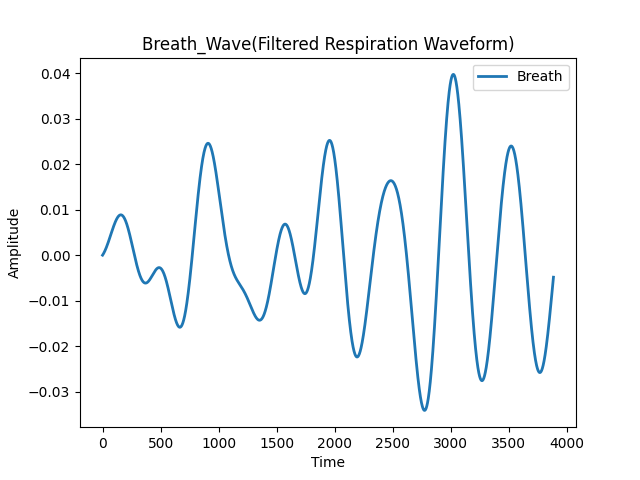
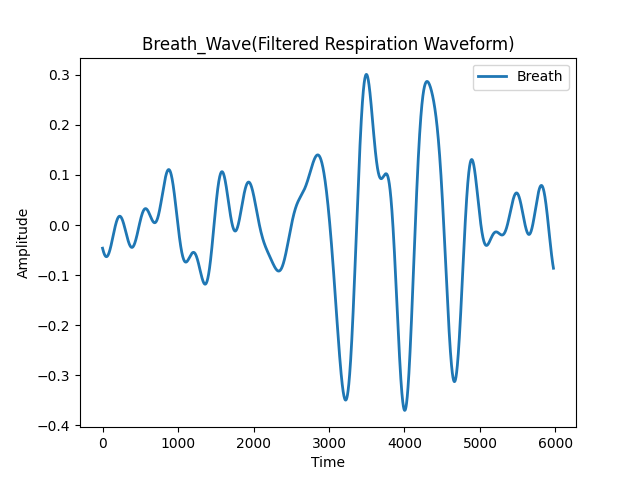
breath detect with win

diff --git a/backend/blueprints/algos_wifi.py b/backend/blueprints/algos_wifi.py
@@ -50,27 +50,35 @@ def detect_breath_realtime():
     req_params = json.loads(request.data)
 
     data_key = req_params['deviceId'] + '_' + 'csi'
-    runtime_list_csi = copy.copy(StaticData.csi_for_breath[data_key])
-    runtime_list_plcr = copy.copy(StaticData.data_slice[req_params['deviceId'] + '_' + 'plcr'])
-    StaticData.csi_for_breath[data_key].clear()
-    csi_view = copy.copy(StaticData.data_slice[data_key])
-    StaticData.data_slice[data_key].clear()
     inform = {
         'runtime_data_csi': [],
         'runtime_data_plcr': [],
         'filtbreath': [],
         'respiration_rate': 0
     }
+    if len(StaticData.csi_for_breath[data_key]) < StaticData.win_len_for_breath:
+        return req_success('SUCCESS', inform)
+
+    runtime_list_csi = copy.copy(StaticData.csi_for_breath[data_key][-1000:])
+    runtime_list_plcr = copy.copy(StaticData.data_slice[req_params['deviceId'] + '_' + 'plcr'])
+    # 现在需要保存之前的数据作为下一个窗的一部分，所以别清掉了
+    # StaticData.csi_for_breath[data_key].clear()
+    # 用来可视化的数据队列
+    csi_view = copy.copy(StaticData.data_slice[data_key])
+    StaticData.data_slice[data_key].clear()
 
     csi = Utils.csi_reshape(runtime_list_csi)
-    if csi.size == 0:
-        print(csi.size)
-        return req_success('SUCCESS', inform)
+    # 感觉不需要，后续再看
+    # if csi.size == 0:
+    #     return req_success('SUCCESS', inform)
+
+    # 呼吸检测主体
     respiration_rate, auto_shifted, filtbreath = breathe(csi)
+    result = filtbreath.tolist()[2530 - 1: 2530 + auto_shifted]
     inform = {
         'runtime_data_csi': csi_view,
         'runtime_data_plcr': runtime_list_plcr,
-        'filtbreath': filtbreath.tolist()[2530 - 1: 2530 + auto_shifted],
+        'filtbreath': result[-StaticData.step_len_for_breath:],
         'respiration_rate': respiration_rate
     }
     # save_path = os.path.join(Utils.get_proj_path(), 'static', 'results', 'wifi', 'real_test')

diff --git a/backend/utils/staticData.py b/backend/utils/staticData.py
@@ -8,6 +8,10 @@ class StaticData:
     begin_index = {}
 
     csi_for_breath = {}
+    # 应该是用不上
+    win_len_for_breath = 1000
+    # 需要和前端的接口调用频率同步
+    step_len_for_breath = 300
     png_for_real_camera = []
 
     def __init__(self):
